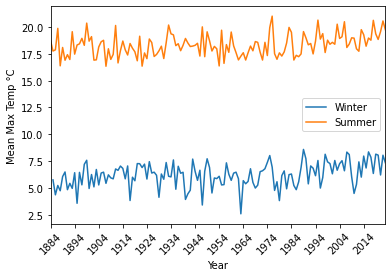
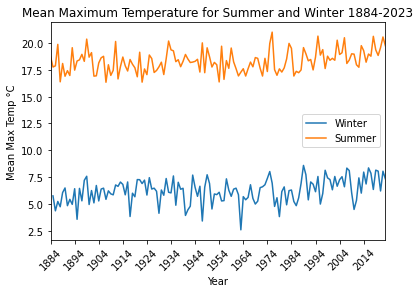
Add files via upload

Changed region(s): [[0.0, 0.0, 1.0, 0.9819]]

diff --git a/Applied Data Science 1/Assignment 1/Assignment 1 figure 1.py b/Applied Data Science 1/Assignment 1/Assignment 1 figure 1.py
@@ -10,6 +10,13 @@ os.chdir("C:\\Users\\harle\\Data Science\\Applied Data Science\\Data")
 #importing the data from an excel file into a pandas dataframe
 uk_max_temp = pd.read_excel("Assignment_1_figure_1_data_max_temp_UK.xlsx")
 
+#saving the columns that we want to work with from the dataframe as
+#specific variables
+winter = uk_max_temp["win"]
+summer = uk_max_temp["sum"]
+year = uk_max_temp["year"]
+
+
 def lineplot(uk_max_temp):
     """Creates a line plot of the mean maximum temperature against year for
     the seasons winter and summer, including labels and legend. The function
@@ -18,6 +25,7 @@ def lineplot(uk_max_temp):
     plt.figure()
     plt.plot(year, winter)
     plt.plot(year, summer)
+    plt.title("Mean Maximum Temperature for Summer and Winter 1884-2023")
     plt.xlabel("Year")
     plt.ylabel("Mean Max Temp °C")
     plt.xticks(year[::10], rotation=45)
@@ -31,8 +39,3 @@ def lineplot(uk_max_temp):
 #calling the function to create the plot and save the png
 lineplot(uk_max_temp)
 
-#saving the columns that we want to work with from the dataframe as
-#specific variables
-winter = uk_max_temp["win"]
-summer = uk_max_temp["sum"]
-year = uk_max_temp["year"]
